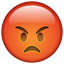
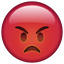
Add difficulty levels Fix enemies go on wall Fix time and score Smaller pictures of hero and enemies

diff --git a/src/game/controller/Controller.java b/src/game/controller/Controller.java
@@ -32,6 +32,7 @@ public class Controller {
     private Timeline enemyTimeline;
     private Timeline heroTimeline;
     private final int[] seconds = {0};
+    private int enemySpeed;
 
     @FXML
     public void initialize() {
@@ -43,12 +44,36 @@ public class Controller {
         field = new GameField(score, this);
         view = new GameView(field, canvas);
 
+        difficultyDialog();
         initializeTimelines();
         start();
     }
 
+    private void difficultyDialog() {
+        Alert alert = new Alert(Alert.AlertType.CONFIRMATION);
+        alert.setTitle("Difficulty");
+        alert.setHeaderText("Select difficulty:");
+        alert.setResizable(false);
+
+        ButtonType easyButton = new ButtonType("Easy");
+        ButtonType mediumButton = new ButtonType("Medium");
+        ButtonType hardButton = new ButtonType("Hard");
+        ButtonType exitButton = new ButtonType("Exit game");
+        alert.getButtonTypes().setAll(easyButton, mediumButton, hardButton, exitButton);
+
+        Optional<ButtonType> result = alert.showAndWait();
+        if (result.get() == easyButton) {
+            enemySpeed = 500;
+        } else if (result.get() == mediumButton) {
+            enemySpeed = 300;
+        } else if (result.get() == hardButton) {
+            enemySpeed = 100;
+        }  else if (result.get() == exitButton) {
+            exit();
+        }
+    }
+
     public void processKey(KeyEvent keyEvent) {
-        System.out.println("pressed");
         switch (keyEvent.getCode()) {
             case LEFT: field.checkCell(Direction.LEFT);
                 break;
@@ -68,6 +93,7 @@ public class Controller {
     public void nextLevel() {
         stop();
         score.setTime(seconds[0]);
+        System.out.println(seconds[0]+" seconds");
         seconds[0] = 0;
         start();
     }
@@ -91,6 +117,8 @@ public class Controller {
 
     public void win() {
         stop();
+        score.setTime(seconds[0]);
+        System.out.println(seconds[0]+" seconds");
         Alert alert = new Alert(Alert.AlertType.CONFIRMATION);
         alert.setTitle("You win!");
         alert.setHeaderText("Score: "+score.calculateScore()+"\nCollected stars: "+score.allStars()+"\nTime: "+score.generalTime()+" seconds");
@@ -121,7 +149,6 @@ public class Controller {
                     }
                 }
         );
-
     }
 
     private void start() {
@@ -139,7 +166,7 @@ public class Controller {
     private void initializeTimelines() {
         timeline = new Timeline(new KeyFrame(Duration.millis(1000), e->timerProcessTick()));
         heroTimeline = new Timeline(new KeyFrame(Duration.millis(100), e->heroProcessTick()));
-        enemyTimeline = new Timeline(new KeyFrame(Duration.millis(300), e->enemyProcessTick()));
+        enemyTimeline = new Timeline(new KeyFrame(Duration.millis(enemySpeed), e->enemyProcessTick()));
         timeline.setCycleCount(Animation.INDEFINITE);
         heroTimeline.setCycleCount(Animation.INDEFINITE);
         enemyTimeline.setCycleCount(Animation.INDEFINITE);
@@ -159,7 +186,7 @@ public class Controller {
         draw();
     }
 
-    private void draw() {
+    public void draw() {
         if (view!=null) {
             view.draw();
         }

diff --git a/src/game/logic/GameField.java b/src/game/logic/GameField.java
@@ -10,11 +10,10 @@ public class GameField {
     public static final int LEVELS = 3; // всего уровней
     public static final int ENEMIES = 3;
 
-    private static Map[] map = new Map[LEVELS];
-    private Cell[][] cell;
     private Hero hero;
     private Enemy[] enemy = new Enemy[ENEMIES];
     private List<Position> currentEnemyPosition = new ArrayList<>(ENEMIES);
+    private Cell[][] cell;
 
     private int currentLevel;
     private int stars;
@@ -30,7 +29,7 @@ public class GameField {
         initializeEnemies();
     }
 
-    public void tick() {
+    public void tick() { // движение врагов
         for (int i = 0; i < ENEMIES; i++) {
             currentEnemyPosition.set(i, enemy[i].move());
             if ( hero.getPosition().equals(currentEnemyPosition.get(i)) ) {
@@ -40,11 +39,11 @@ public class GameField {
     }
 
     private void nextLevel() {
-        score.setStars(stars);
+        score.setStars(stars); // сохранить звёзды текущего уровня
         stars = 0;
         controller.nextLevel();
         score.nextLevel();
-        cell = map[currentLevel].getArray();
+        cell = map[currentLevel].getArray(); // загрузить новую карту
         hero = new Hero(heroStartPosition);
         initializeEnemies();
     }
@@ -67,7 +66,7 @@ public class GameField {
         int y = position.getY();
         int value = cell[y][x].getCurrentValue();
 
-        for (int i = 0; i < ENEMIES; i++) {
+        for (int i = 0; i < ENEMIES; i++) { // если там враг
             if ( position.equals(enemy[i].getPosition()) ) {
                 controller.loss();
             }
@@ -80,13 +79,16 @@ public class GameField {
             hero.move(direction);
         } else if ( value == 3 ) {
             hero.move(direction);
+            controller.draw();
             currentLevel++;
             if ( currentLevel < LEVELS ) {
                 nextLevel();
             } else {
                 controller.win();
             }
-        } else if ( value < 0 ) {
+        } else if ( value == -1 ) {
+            hero.move(direction);
+            controller.draw();
             controller.loss();
         }
     }
@@ -128,6 +130,7 @@ public class GameField {
     private static Position heroStartPosition = new Position(1, 10);
     private static Position[] enemyStartPosition = { new Position(1, 1), new Position(5, 1), new Position(10, 10) };
     private static Direction[] enemyStartDirection = { Direction.RIGHT, Direction.DOWN, Direction.UP };
+    private static Map[] map = new Map[LEVELS];
 
     static {
         int[][] arr = {

diff --git a/src/game/view/GameView.java b/src/game/view/GameView.java
@@ -12,8 +12,7 @@ public class GameView {
     private Image heroImage = new Image(getClass().getResourceAsStream("/images/hero.png"));
     private Image enemyImage = new Image(getClass().getResourceAsStream("/images/enemy.png"));
     private Image starImage = new Image(getClass().getResourceAsStream("/images/star.png"));
-    private Image doorImage = new Image(getClass().getResourceAsStream("/images/door.png"));
-
+    private Image doorImage = new Image(getClass().getResourceAsStream("/images/door.jpg"));
 
     public GameView(GameField field, Canvas canvas) {
         this.field = field;
@@ -38,6 +37,10 @@ public class GameView {
             g2.strokeLine(0, i*cellSize, n*cellSize, i*cellSize);
         }
 
+        int x = field.getHero().getX();
+        int y = field.getHero().getY();
+        g2.drawImage(heroImage, x*cellSize+0.15*cellSize, y*cellSize+0.15*cellSize, cellSize*0.7, cellSize*0.7);
+
         for (int i = 0; i < n; i++) {
             for (int j = 0; j < n; j++) {
                 int value = field.getCellValue(j, i);
@@ -55,14 +58,10 @@ public class GameView {
             }
         }
 
-        int x = field.getHero().getX();
-        int y = field.getHero().getY();
-        g2.drawImage(heroImage, x*cellSize, y*cellSize, cellSize, cellSize);
-
         for (int i = 0; i < GameField.ENEMIES; i++) {
             x = field.getEnemy(i).getX();
             y = field.getEnemy(i).getY();
-            g2.drawImage(enemyImage, x*cellSize, y*cellSize, cellSize, cellSize);
+            g2.drawImage(enemyImage, x*cellSize+0.15*cellSize, y*cellSize+0.15*cellSize, cellSize*0.7, cellSize*0.7);
         }
     }
 }

diff --git a/src/game/logic/Enemy.java b/src/game/logic/Enemy.java
@@ -11,22 +11,20 @@ public class Enemy {
         x = position.getX();
         y = position.getY();
         direction = initialDirection;
-        if ( initialDirection == Direction.UP || initialDirection == Direction.DOWN ) {
-            isVertical = true;
-        } else {
-            isVertical = false;
-        }
+        isVertical = initialDirection == Direction.UP || initialDirection == Direction.DOWN;
         this.field = field;
     }
 
     public Position move() {
         Position next = direction.next(new Position(x, y)); //клетка, которая у нас на пути
-        if ( field.getCellValue(next.getX(), next.getY()) == 0 ) { //если стена - меняем направление
+        int value = field.getCellValue(next.getX(), next.getY());
+        if ( value == 0 || value == 3 ) { //стена или дверь - меняем направление
             if (isVertical) {
                 direction = ( (direction == Direction.UP)? Direction.DOWN : Direction.UP);
             } else {
                 direction = ( (direction == Direction.RIGHT)? Direction.LEFT : Direction.RIGHT);
             }
+            next = direction.next(new Position(x, y));
         }
         x = next.getX();
         y = next.getY();

diff --git a/src/game/logic/Score.java b/src/game/logic/Score.java
@@ -34,7 +34,7 @@ public class Score {
 
     public int generalTime() {
         int sum = 0;
-        for (int i = 0; i < currentLevel; i++) {
+        for (int i = 0; i < levels; i++) {
             sum += time[i];
         }
         return sum;
@@ -51,8 +51,8 @@ public class Score {
                 score += 10*stars[i];
             } else {
                 int timeBonus = 0;
-                if ( time[i] <= 15 ) timeBonus = 50;
-                else if ( time[i] <= 25 ) timeBonus = 25;
+                if ( time[i] <= 25 ) timeBonus = 50;
+                else if ( time[i] <= 50 ) timeBonus = 25;
                 score += 10*stars[i] + timeBonus;
             }
         }
